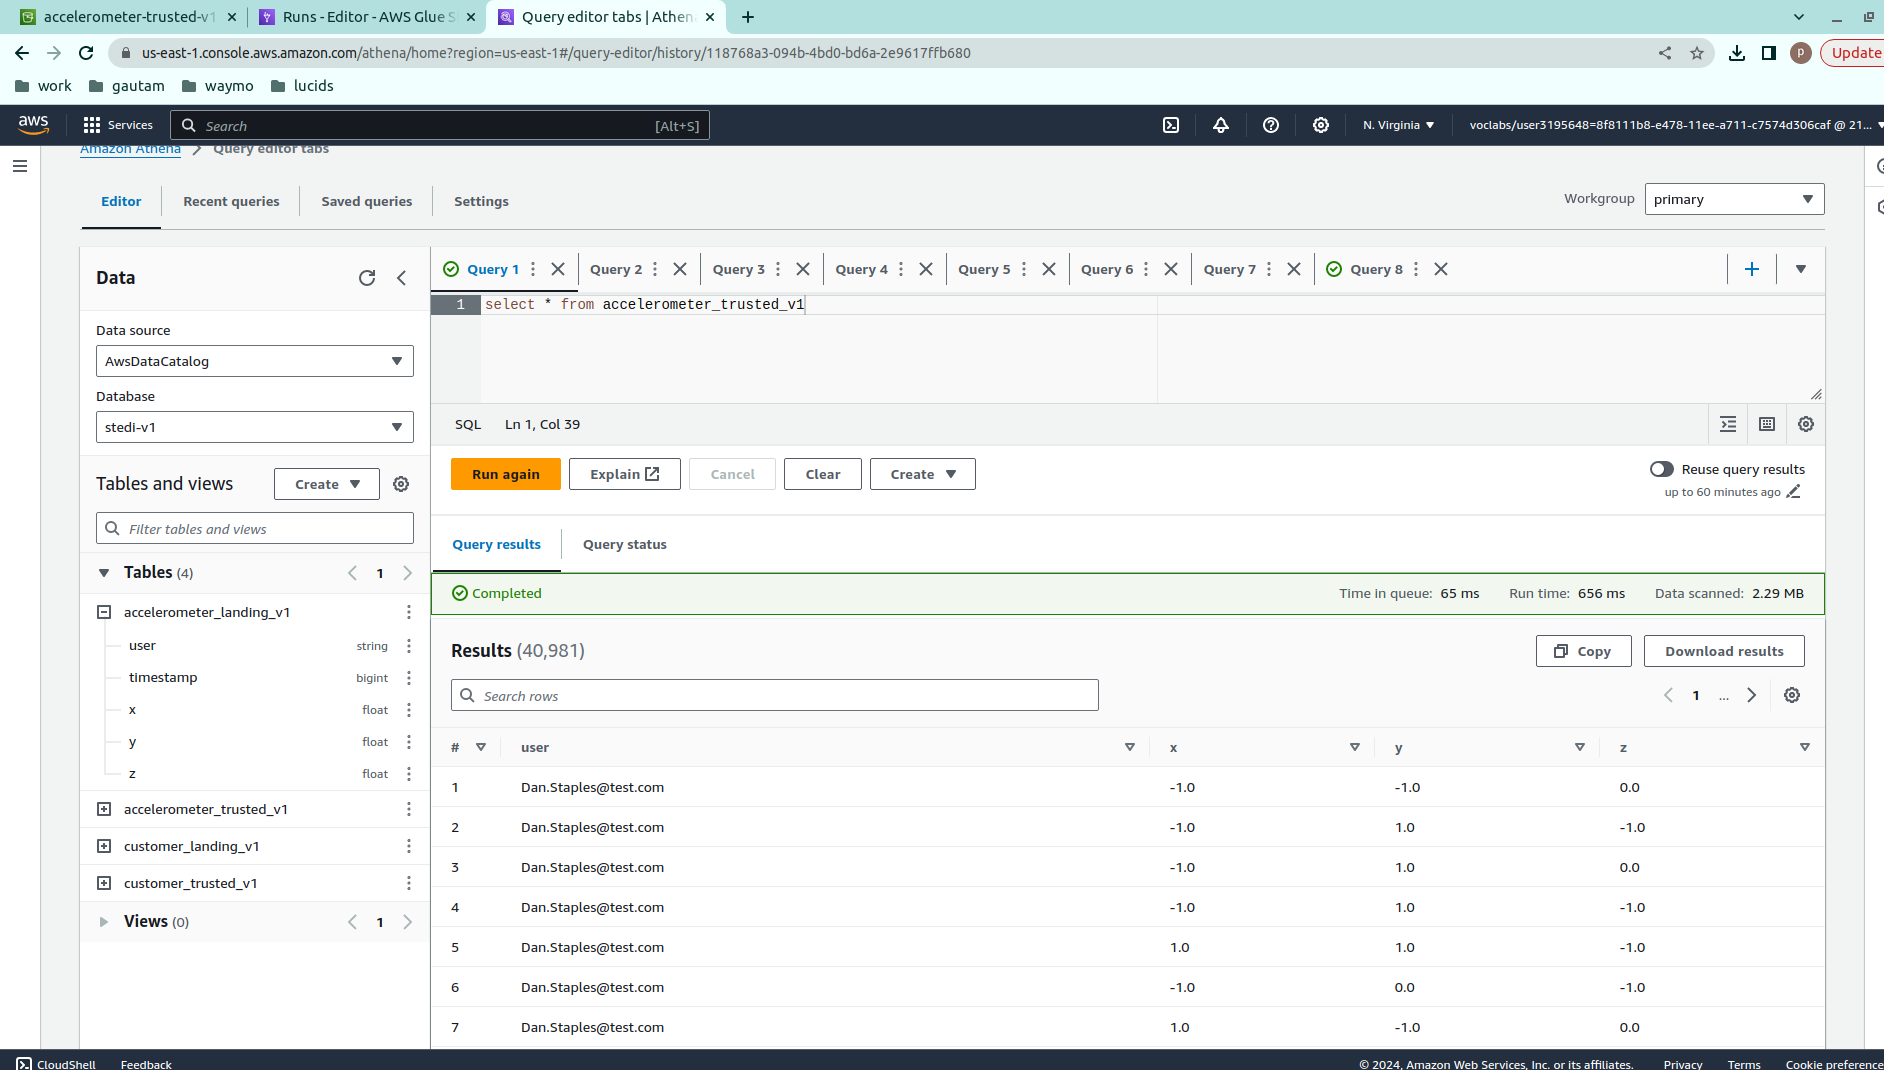
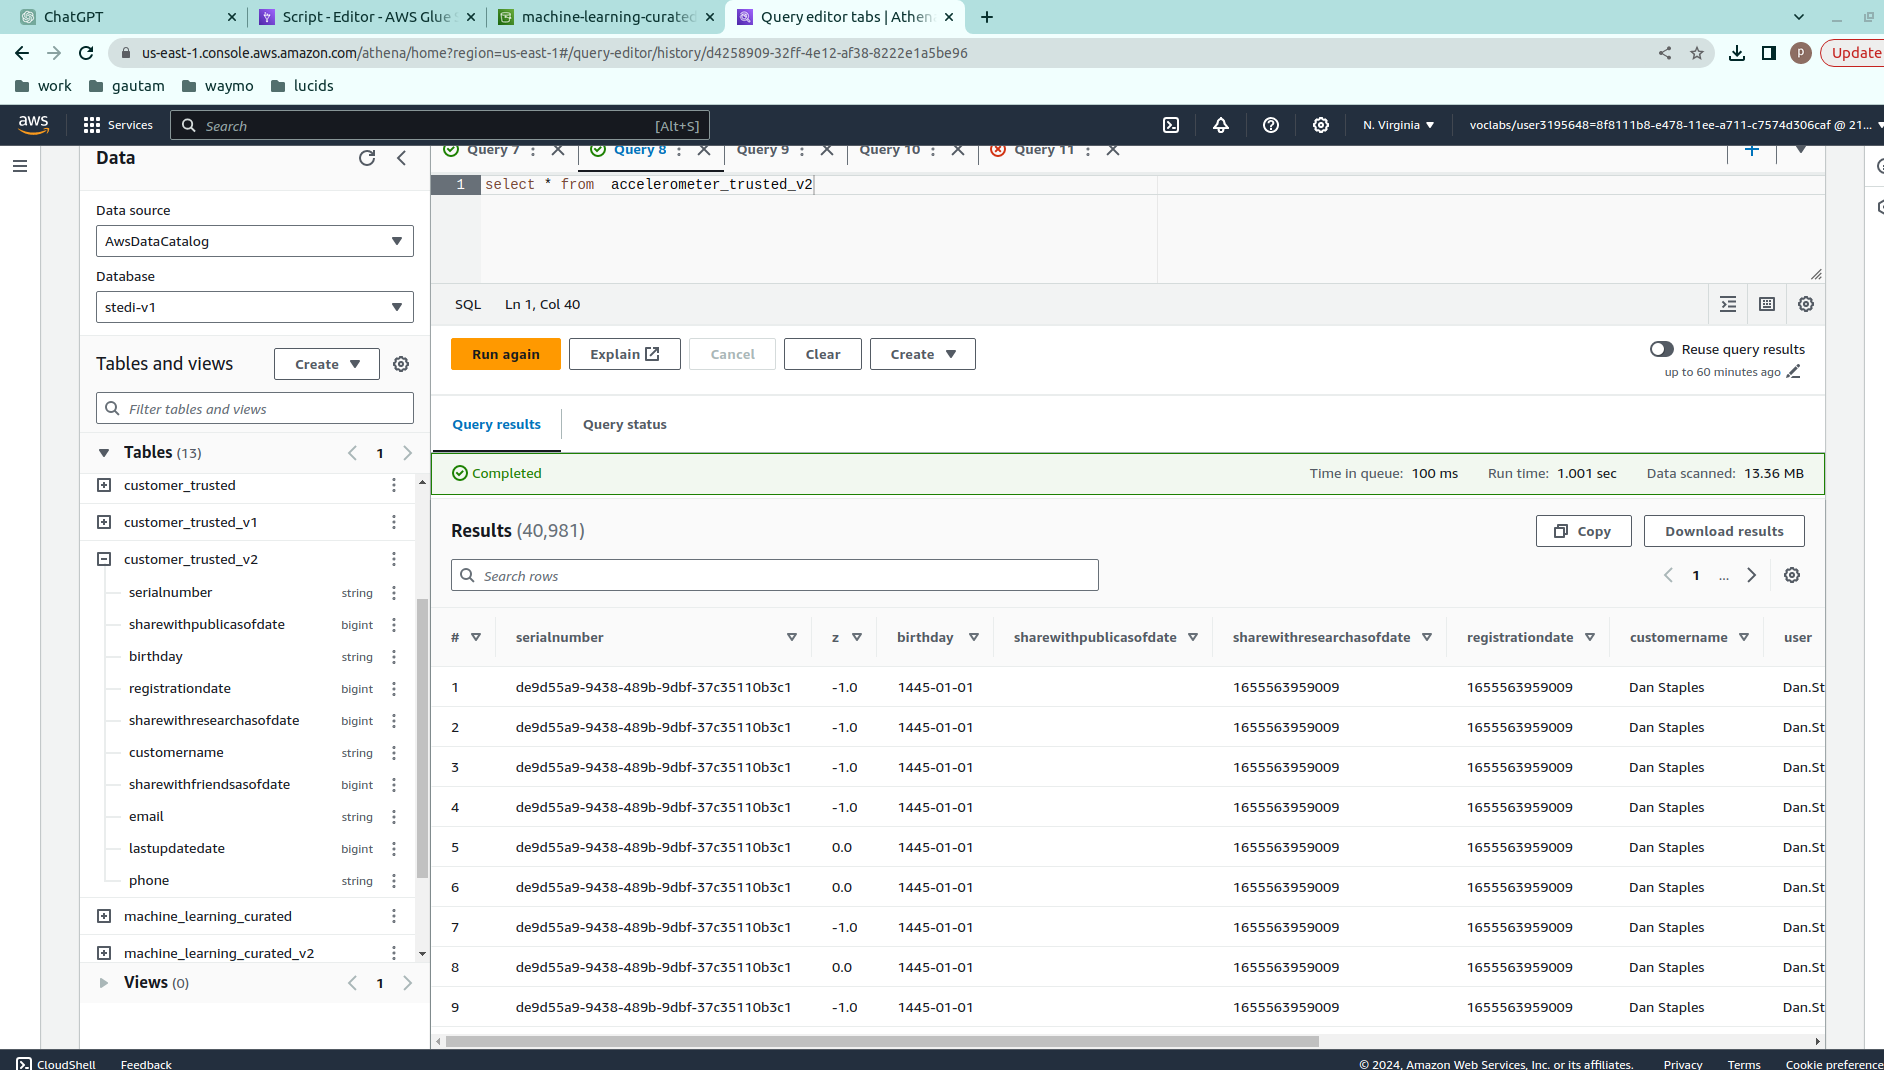
enabled data catalog generation from glue job

diff --git a/scripts/customer_curated.py b/scripts/customer_curated.py
@@ -6,58 +6,30 @@ from awsglue.context import GlueContext
 from awsglue.job import Job
 from awsglue.dynamicframe import DynamicFrame
 
-args = getResolvedOptions(sys.argv, ["JOB_NAME"])
+args = getResolvedOptions(sys.argv, ['JOB_NAME'])
 sc = SparkContext()
 glueContext = GlueContext(sc)
 spark = glueContext.spark_session
 job = Job(glueContext)
-job.init(args["JOB_NAME"], args)
+job.init(args['JOB_NAME'], args)
 
 # Script generated for node Amazon S3
-AmazonS3_node1712811898990 = glueContext.create_dynamic_frame.from_options(
-    format_options={"multiline": False},
-    connection_type="s3",
-    format="json",
-    connection_options={"paths": ["s3://customer-trusted-v1"], "recurse": True},
-    transformation_ctx="AmazonS3_node1712811898990",
-)
+AmazonS3_node1712811898990 = glueContext.create_dynamic_frame.from_options(format_options={"multiline": False}, connection_type="s3", format="json", connection_options={"paths": ["s3://customer-trusted-v1"], "recurse": True}, transformation_ctx="AmazonS3_node1712811898990")
 
 # Script generated for node AWS Glue Data Catalog
-AWSGlueDataCatalog_node1712811932389 = glueContext.create_dynamic_frame.from_catalog(
-    database="stedi-v1",
-    table_name="accelerometer_landing_v1",
-    transformation_ctx="AWSGlueDataCatalog_node1712811932389",
-)
+AWSGlueDataCatalog_node1712811932389 = glueContext.create_dynamic_frame.from_catalog(database="stedi-v1", table_name="accelerometer_landing_v1", transformation_ctx="AWSGlueDataCatalog_node1712811932389")
 
 # Script generated for node Join
 AmazonS3_node1712811898990DF = AmazonS3_node1712811898990.toDF()
 AWSGlueDataCatalog_node1712811932389DF = AWSGlueDataCatalog_node1712811932389.toDF()
-Join_node1712811949816 = DynamicFrame.fromDF(
-    AmazonS3_node1712811898990DF.join(
-        AWSGlueDataCatalog_node1712811932389DF,
-        (
-            AmazonS3_node1712811898990DF["email"]
-            == AWSGlueDataCatalog_node1712811932389DF["user"]
-        ),
-        "leftsemi",
-    ),
-    glueContext,
-    "Join_node1712811949816",
-)
+Join_node1712811949816 = DynamicFrame.fromDF(AmazonS3_node1712811898990DF.join(AWSGlueDataCatalog_node1712811932389DF, (AmazonS3_node1712811898990DF['email'] == AWSGlueDataCatalog_node1712811932389DF['user']), "leftsemi"), glueContext, "Join_node1712811949816")
 
 # Script generated for node Drop Fields
-DropFields_node1712811982022 = DropFields.apply(
-    frame=Join_node1712811949816,
-    paths=[],
-    transformation_ctx="DropFields_node1712811982022",
-)
+DropFields_node1712811982022 = DropFields.apply(frame=Join_node1712811949816, paths=[], transformation_ctx="DropFields_node1712811982022")
 
-# Script generated for node AWS Glue Data Catalog
-AWSGlueDataCatalog_node1712812898392 = glueContext.write_dynamic_frame.from_catalog(
-    frame=DropFields_node1712811982022,
-    database="stedi-v1",
-    table_name="customer_curated_v1",
-    transformation_ctx="AWSGlueDataCatalog_node1712812898392",
-)
-
+# Script generated for node Amazon S3
+AmazonS3_node1712902746343 = glueContext.getSink(path="s3://customer-curated-v1", connection_type="s3", updateBehavior="UPDATE_IN_DATABASE", partitionKeys=[], enableUpdateCatalog=True, transformation_ctx="AmazonS3_node1712902746343")
+AmazonS3_node1712902746343.setCatalogInfo(catalogDatabase="stedi-v1",catalogTableName="customer_curated_v2")
+AmazonS3_node1712902746343.setFormat("json")
+AmazonS3_node1712902746343.writeFrame(DropFields_node1712811982022)
 job.commit()

diff --git a/scripts/machine_learning_curated.py b/scripts/machine_learning_curated.py
@@ -4,44 +4,32 @@ from awsglue.utils import getResolvedOptions
 from pyspark.context import SparkContext
 from awsglue.context import GlueContext
 from awsglue.job import Job
+from awsglue.dynamicframe import DynamicFrame
 
-args = getResolvedOptions(sys.argv, ["JOB_NAME"])
+args = getResolvedOptions(sys.argv, ['JOB_NAME'])
 sc = SparkContext()
 glueContext = GlueContext(sc)
 spark = glueContext.spark_session
 job = Job(glueContext)
-job.init(args["JOB_NAME"], args)
+job.init(args['JOB_NAME'], args)
 
 # Script generated for node AWS Glue Data Catalog
-AWSGlueDataCatalog_node1712827879610 = glueContext.create_dynamic_frame.from_catalog(
-    database="stedi-v1",
-    table_name="step_trainer_trusted",
-    transformation_ctx="AWSGlueDataCatalog_node1712827879610",
-)
+AWSGlueDataCatalog_node1712827879610 = glueContext.create_dynamic_frame.from_catalog(database="stedi-v1", table_name="step_trainer_trusted_v2", transformation_ctx="AWSGlueDataCatalog_node1712827879610")
 
 # Script generated for node AWS Glue Data Catalog
-AWSGlueDataCatalog_node1712827890624 = glueContext.create_dynamic_frame.from_catalog(
-    database="stedi-v1",
-    table_name="accelerometer_trusted_v1",
-    transformation_ctx="AWSGlueDataCatalog_node1712827890624",
-)
+AWSGlueDataCatalog_node1712827890624 = glueContext.create_dynamic_frame.from_catalog(database="stedi-v1", table_name="accelerometer_trusted_v2", transformation_ctx="AWSGlueDataCatalog_node1712827890624")
 
 # Script generated for node Join
-Join_node1712827906770 = Join.apply(
-    frame1=AWSGlueDataCatalog_node1712827890624,
-    frame2=AWSGlueDataCatalog_node1712827879610,
-    keys1=["timestamp"],
-    keys2=["sensorreadingtime"],
-    transformation_ctx="Join_node1712827906770",
-)
+AWSGlueDataCatalog_node1712827890624DF = AWSGlueDataCatalog_node1712827890624.toDF()
+AWSGlueDataCatalog_node1712827879610DF = AWSGlueDataCatalog_node1712827879610.toDF()
+Join_node1712827906770 = DynamicFrame.fromDF(AWSGlueDataCatalog_node1712827890624DF.join(AWSGlueDataCatalog_node1712827879610DF, (AWSGlueDataCatalog_node1712827890624DF['timestamp'] == AWSGlueDataCatalog_node1712827879610DF['sensorreadingtime']), "outer"), glueContext, "Join_node1712827906770")
+
+# Script generated for node Drop Fields
+DropFields_node1712849890306 = DropFields.apply(frame=Join_node1712827906770, paths=["user"], transformation_ctx="DropFields_node1712849890306")
 
 # Script generated for node Amazon S3
-AmazonS3_node1712828071022 = glueContext.write_dynamic_frame.from_options(
-    frame=Join_node1712827906770,
-    connection_type="s3",
-    format="json",
-    connection_options={"path": "s3://machine-learning-curated", "partitionKeys": []},
-    transformation_ctx="AmazonS3_node1712828071022",
-)
-
+AmazonS3_node1712828071022 = glueContext.getSink(path="s3://machine-learning-curated", connection_type="s3", updateBehavior="UPDATE_IN_DATABASE", partitionKeys=[], enableUpdateCatalog=True, transformation_ctx="AmazonS3_node1712828071022")
+AmazonS3_node1712828071022.setCatalogInfo(catalogDatabase="stedi-v1",catalogTableName="machine_learning_curated_v2")
+AmazonS3_node1712828071022.setFormat("json")
+AmazonS3_node1712828071022.writeFrame(DropFields_node1712849890306)
 job.commit()

diff --git a/scripts/step_trainer_trusted.py b/scripts/step_trainer_trusted.py
@@ -4,6 +4,7 @@ from awsglue.utils import getResolvedOptions
 from pyspark.context import SparkContext
 from awsglue.context import GlueContext
 from awsglue.job import Job
+from awsglue.dynamicframe import DynamicFrame
 
 args = getResolvedOptions(sys.argv, ['JOB_NAME'])
 sc = SparkContext()
@@ -13,15 +14,19 @@ job = Job(glueContext)
 job.init(args['JOB_NAME'], args)
 
 # Script generated for node AWS Glue Data Catalog
-AWSGlueDataCatalog_node1712830386436 = glueContext.create_dynamic_frame.from_catalog(database="stedi-v1", table_name="customer_trusted_v1", transformation_ctx="AWSGlueDataCatalog_node1712830386436")
+AWSGlueDataCatalog_node1712831406828 = glueContext.create_dynamic_frame.from_catalog(database="stedi-v1", table_name="customer_trusted_v2", transformation_ctx="AWSGlueDataCatalog_node1712831406828")
 
 # Script generated for node Amazon S3
 AmazonS3_node1712830387797 = glueContext.create_dynamic_frame.from_options(format_options={"multiline": False}, connection_type="s3", format="json", connection_options={"paths": ["s3://step-trainer-landing-v1"], "recurse": True}, transformation_ctx="AmazonS3_node1712830387797")
 
 # Script generated for node Join
-Join_node1712814281187 = Join.apply(frame1=AWSGlueDataCatalog_node1712830386436, frame2=AmazonS3_node1712830387797, keys1=["serialnumber"], keys2=["serialnumber"], transformation_ctx="Join_node1712814281187")
+AmazonS3_node1712830387797DF = AmazonS3_node1712830387797.toDF()
+AWSGlueDataCatalog_node1712831406828DF = AWSGlueDataCatalog_node1712831406828.toDF()
+Join_node1712814281187 = DynamicFrame.fromDF(AmazonS3_node1712830387797DF.join(AWSGlueDataCatalog_node1712831406828DF, (AmazonS3_node1712830387797DF['serialnumber'] == AWSGlueDataCatalog_node1712831406828DF['serialnumber']), "leftsemi"), glueContext, "Join_node1712814281187")
 
 # Script generated for node Amazon S3
-AmazonS3_node1712814381901 = glueContext.write_dynamic_frame.from_options(frame=Join_node1712814281187, connection_type="s3", format="json", connection_options={"path": "s3://step-trainer-trusted", "partitionKeys": []}, transformation_ctx="AmazonS3_node1712814381901")
-
+AmazonS3_node1712814381901 = glueContext.getSink(path="s3://step-trainer-trusted", connection_type="s3", updateBehavior="UPDATE_IN_DATABASE", partitionKeys=[], enableUpdateCatalog=True, transformation_ctx="AmazonS3_node1712814381901")
+AmazonS3_node1712814381901.setCatalogInfo(catalogDatabase="stedi-v1",catalogTableName="step_trainer_trusted_v2")
+AmazonS3_node1712814381901.setFormat("json")
+AmazonS3_node1712814381901.writeFrame(Join_node1712814281187)
 job.commit()

diff --git a/scripts/customer_trusted.py b/scripts/customer_trusted.py
@@ -14,12 +14,14 @@ job = Job(glueContext)
 job.init(args['JOB_NAME'], args)
 
 # Script generated for node Amazon S3
-AmazonS3_node1712766176190 = glueContext.create_dynamic_frame.from_options(format_options={"multiline": False}, connection_type="s3", format="json", connection_options={"paths": ["s3://customer-landing-v1/"], "recurse": True}, transformation_ctx="AmazonS3_node1712766176190")
+AmazonS3_node1712900185738 = glueContext.create_dynamic_frame.from_options(format_options={"multiline": False}, connection_type="s3", format="json", connection_options={"paths": ["s3://customer-landing-v1"], "recurse": True}, transformation_ctx="AmazonS3_node1712900185738")
 
 # Script generated for node Filter
-Filter_node1712766640214 = Filter.apply(frame=AmazonS3_node1712766176190, f=lambda row: (not(row["shareWithResearchAsOfDate"] == 0)), transformation_ctx="Filter_node1712766640214")
+Filter_node1712900208221 = Filter.apply(frame=AmazonS3_node1712900185738, f=lambda row: (not(row["shareWithResearchAsOfDate"] == 0)), transformation_ctx="Filter_node1712900208221")
 
 # Script generated for node Amazon S3
-AmazonS3_node1712766707910 = glueContext.write_dynamic_frame.from_options(frame=Filter_node1712766640214, connection_type="s3", format="json", connection_options={"path": "s3://customer-trusted-v1/", "partitionKeys": []}, transformation_ctx="AmazonS3_node1712766707910")
-
+AmazonS3_node1712900228698 = glueContext.getSink(path="s3://customer-trusted-v1", connection_type="s3", updateBehavior="UPDATE_IN_DATABASE", partitionKeys=[], enableUpdateCatalog=True, transformation_ctx="AmazonS3_node1712900228698")
+AmazonS3_node1712900228698.setCatalogInfo(catalogDatabase="stedi-v1",catalogTableName="customer_trusted_v2")
+AmazonS3_node1712900228698.setFormat("json")
+AmazonS3_node1712900228698.writeFrame(Filter_node1712900208221)
 job.commit()

diff --git a/scripts/accelerometer_trusted.py b/scripts/accelerometer_trusted.py
@@ -22,9 +22,11 @@ AmazonS3_node1712810848109 = glueContext.create_dynamic_frame.from_options(forma
 Join_node1712810873072 = Join.apply(frame1=AmazonS3_node1712810848109, frame2=AWSGlueDataCatalog_node1712810832560, keys1=["email"], keys2=["user"], transformation_ctx="Join_node1712810873072")
 
 # Script generated for node Drop Fields
-DropFields_node1712811006500 = DropFields.apply(frame=Join_node1712810873072, paths=["serialNumber", "shareWithPublicAsOfDate", "birthDay", "registrationDate", "shareWithResearchAsOfDate", "customerName", "shareWithFriendsAsOfDate", "email", "lastUpdateDate", "phone", "timestamp"], transformation_ctx="DropFields_node1712811006500")
+DropFields_node1712811006500 = DropFields.apply(frame=Join_node1712810873072, paths=["email", "phone"], transformation_ctx="DropFields_node1712811006500")
 
 # Script generated for node Amazon S3
-AmazonS3_node1712811257708 = glueContext.write_dynamic_frame.from_options(frame=DropFields_node1712811006500, connection_type="s3", format="json", connection_options={"path": "s3://accelerometer-trusted-v1", "partitionKeys": []}, transformation_ctx="AmazonS3_node1712811257708")
-
+AmazonS3_node1712811257708 = glueContext.getSink(path="s3://accelerometer-trusted-v1", connection_type="s3", updateBehavior="UPDATE_IN_DATABASE", partitionKeys=[], enableUpdateCatalog=True, transformation_ctx="AmazonS3_node1712811257708")
+AmazonS3_node1712811257708.setCatalogInfo(catalogDatabase="stedi-v1",catalogTableName="accelerometer_trusted_v2")
+AmazonS3_node1712811257708.setFormat("json")
+AmazonS3_node1712811257708.writeFrame(DropFields_node1712811006500)
 job.commit()
